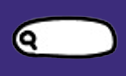
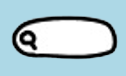
mengubha img

diff --git a/public/styles/main-3.css b/public/styles/main-3.css
@@ -25,13 +25,10 @@ body {
  
 }
 
-input {
-  background-color: purple;
-  color: black;
-}
+
 
 #jumlahProduk {
-  background-color: navy;
+  background-color: pink;
   color: white;
   border-radius: 20px;
   width: 100%;
@@ -73,6 +70,7 @@ input {
   scroll-snap-align: start;
   border: 1px solid black;
   border-radius: 10px;
+  box-shadow: 20px 20px lightblue;
   overflow: hidden;
   transition: transform 0.3s;
   cursor: pointer;
@@ -127,15 +125,17 @@ input {
 }
 
 .swiper-pagination{
-
   height: 90px;
+  
 }
+
 .product-card img {
   height: 280px !important;
   width: 260px !important;
 }
 form {
   display: flex;
+  margin-bottom: 30px;
 }
 #button-atas {
   background-color: lightpink;
@@ -149,10 +149,14 @@ form {
 }
 
 #button-atas:hover {
-  background-color: lightblue;
+  background-color: lightcoral;
 }
 
 #button-atas:active {
   box-shadow: #422800 2px 2px 0 0;
   transform: translate(2px, 2px);
+}
+swiper-button-next {
+  background-color: #422800 !important;
+  color: #422800 !important;
 }

diff --git a/public/styles/header-3.css b/public/styles/header-3.css
@@ -1,6 +1,6 @@
 .header {
     height: 66px;
-    background-color: #3C2C7B;
+    background-color: lightblue;
     display: flex;
     flex-direction: row;
     border: 3px solid black;
@@ -80,9 +80,9 @@
 }
 
 .footer-container {
-  margin-top: 119px;
+  margin-top: 89px;
   height: 46px;
-  background-color: #3C2C7B;
+  background-color: #ADD8E6;
   margin-bottom: 0px;
   border: 3px solid black;
   text-align: center;
